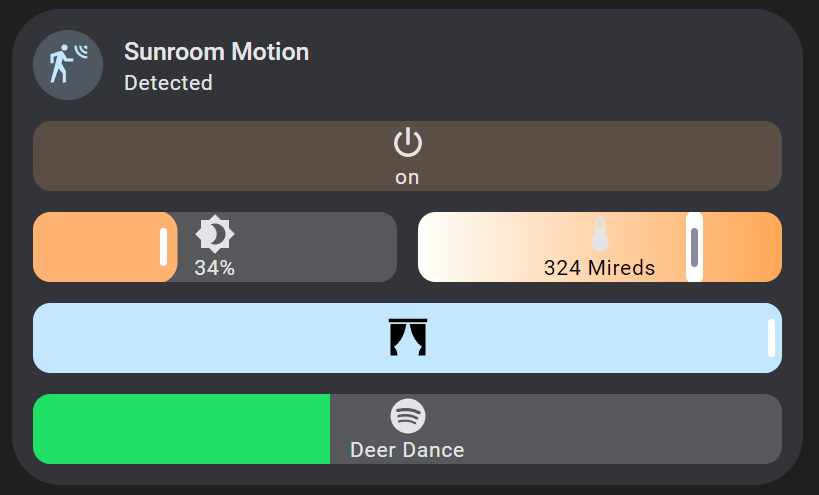
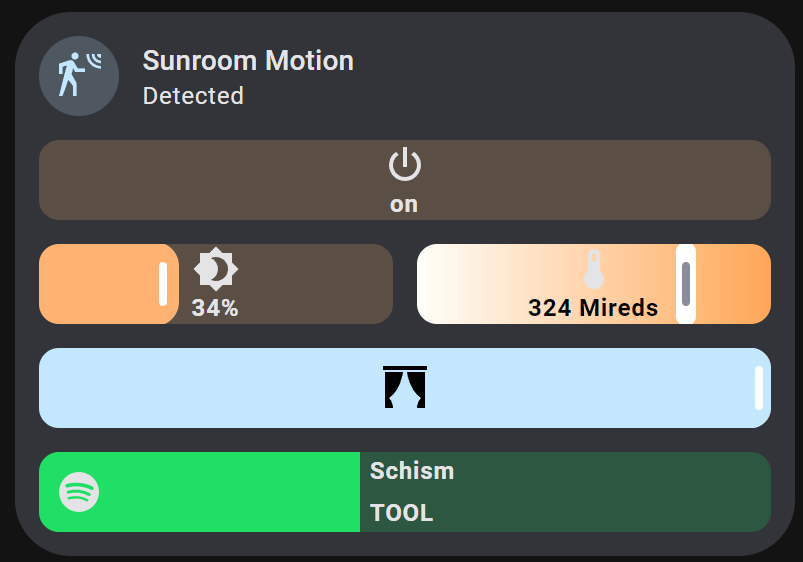
update example screenshots

Changed region(s): [[0.0, 0.0303, 0.9963, 1.0], [0.0623, 0.0, 0.0934, 0.0303]]

diff --git a/README.md b/README.md
@@ -699,18 +699,22 @@ features:
     entries:
       - tap_action:
           action: call-service
-          service: light.toggle
+          service: light.turn_on
           data:
             entity_id: light.sunroom_ceiling
-        icon: mdi:power
-        label: '{{ states("light.sunroom_ceiling") }}'
-        style:
-          '--color': |-
-            {% if is_state("light.sunroom_ceiling", ["on"]) %}
-              rgb({{ state_attr("light.sunroom_ceiling", "rgb_color") }})
-            {% else %}
-              initial
-            {% endif %}
+            color_name: red
+        double_tap_action:
+          action: call-service
+          service: light.turn_on
+          data:
+            entity_id: light.sunroom_ceiling
+            color_name: green
+        hold_action:
+          action: call-service
+          service: light.turn_on
+          data:
+            entity_id: light.sunroom_ceiling
+            color_name: blue
   - type: custom:service-call
     entries:
       - type: slider
@@ -778,13 +782,21 @@ features:
             entity_id: media_player.spotify
         value_attribute: volume_level
         icon: mdi:spotify
-        label: '{{ state_attr("media_player.spotify", "media_title") }}'
+        label: |
+          {{ state_attr("media_player.spotify", "media_title") }}
+          {{ state_attr("media_player.spotify", "media_artist") }}
         range:
           - 0
           - 1
         thumb: flat
         style:
           '--color': rgb(31, 223, 100)
+          flex-direction: row
+        icon_style:
+          left: 8px
+        label_style:
+          left: -8px
+
 type: tile
 entity: binary_sensor.sun_room
 color: accent
@@ -908,7 +920,7 @@ vertical: false
 color: accent
 ```
 
-<img src="https://raw.githubusercontent.com/Nerwyn/service-call-tile-feature/main/assets/selector_tile.png" alt="selector_tile" width="600"/>
+<img src="https://raw.githubusercontent.com/Nerwyn/service-call-tile-feature/main/assets/selector_show_tile.png" alt="selector_show_tile" width="600"/>
 
 [last-commit-shield]: https://img.shields.io/github/last-commit/Nerwyn/service-call-tile-feature?style=for-the-badge
 [commits]: https://github.com/Nerwyn/service-call-tile-feature/commits/main
